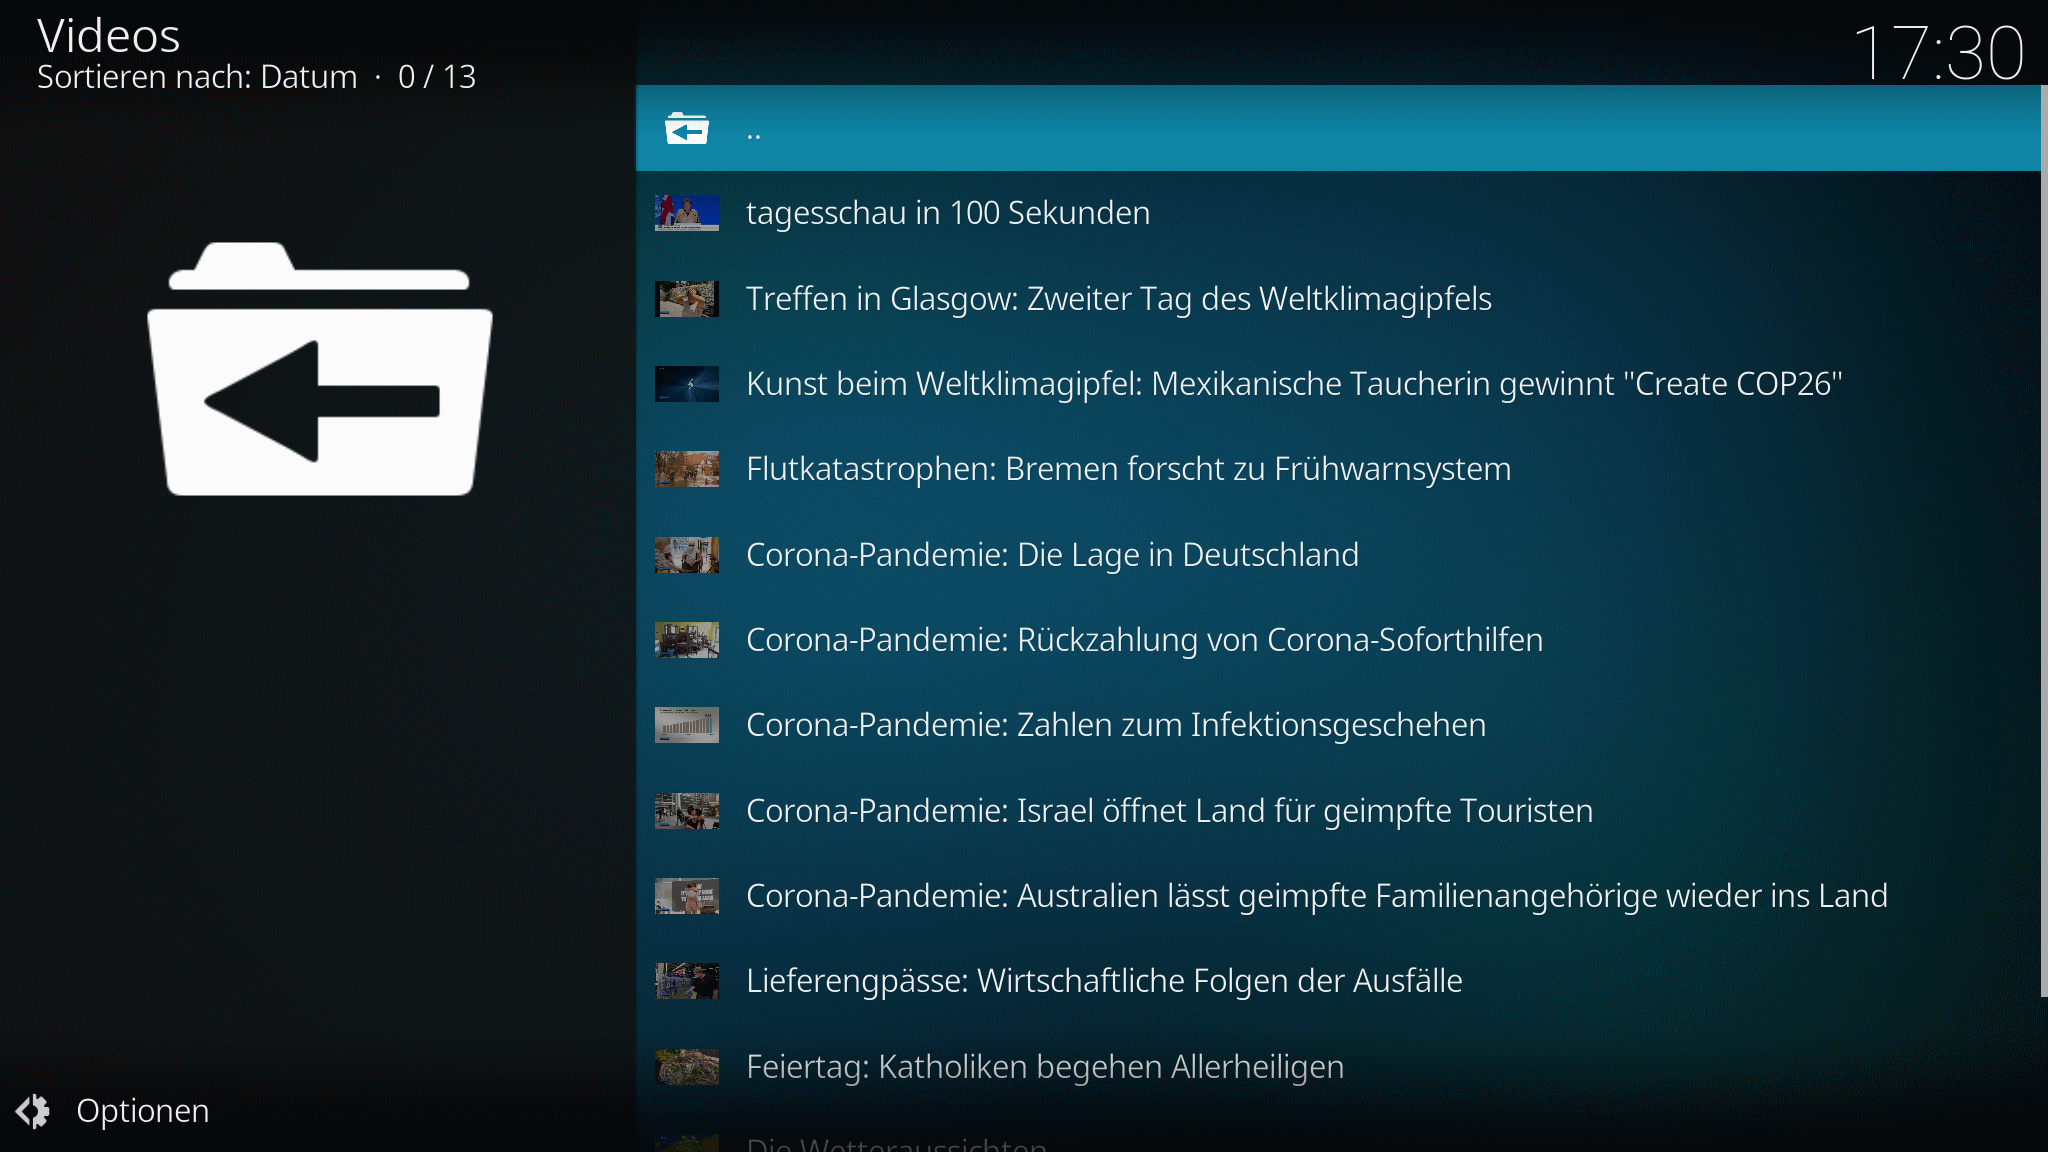
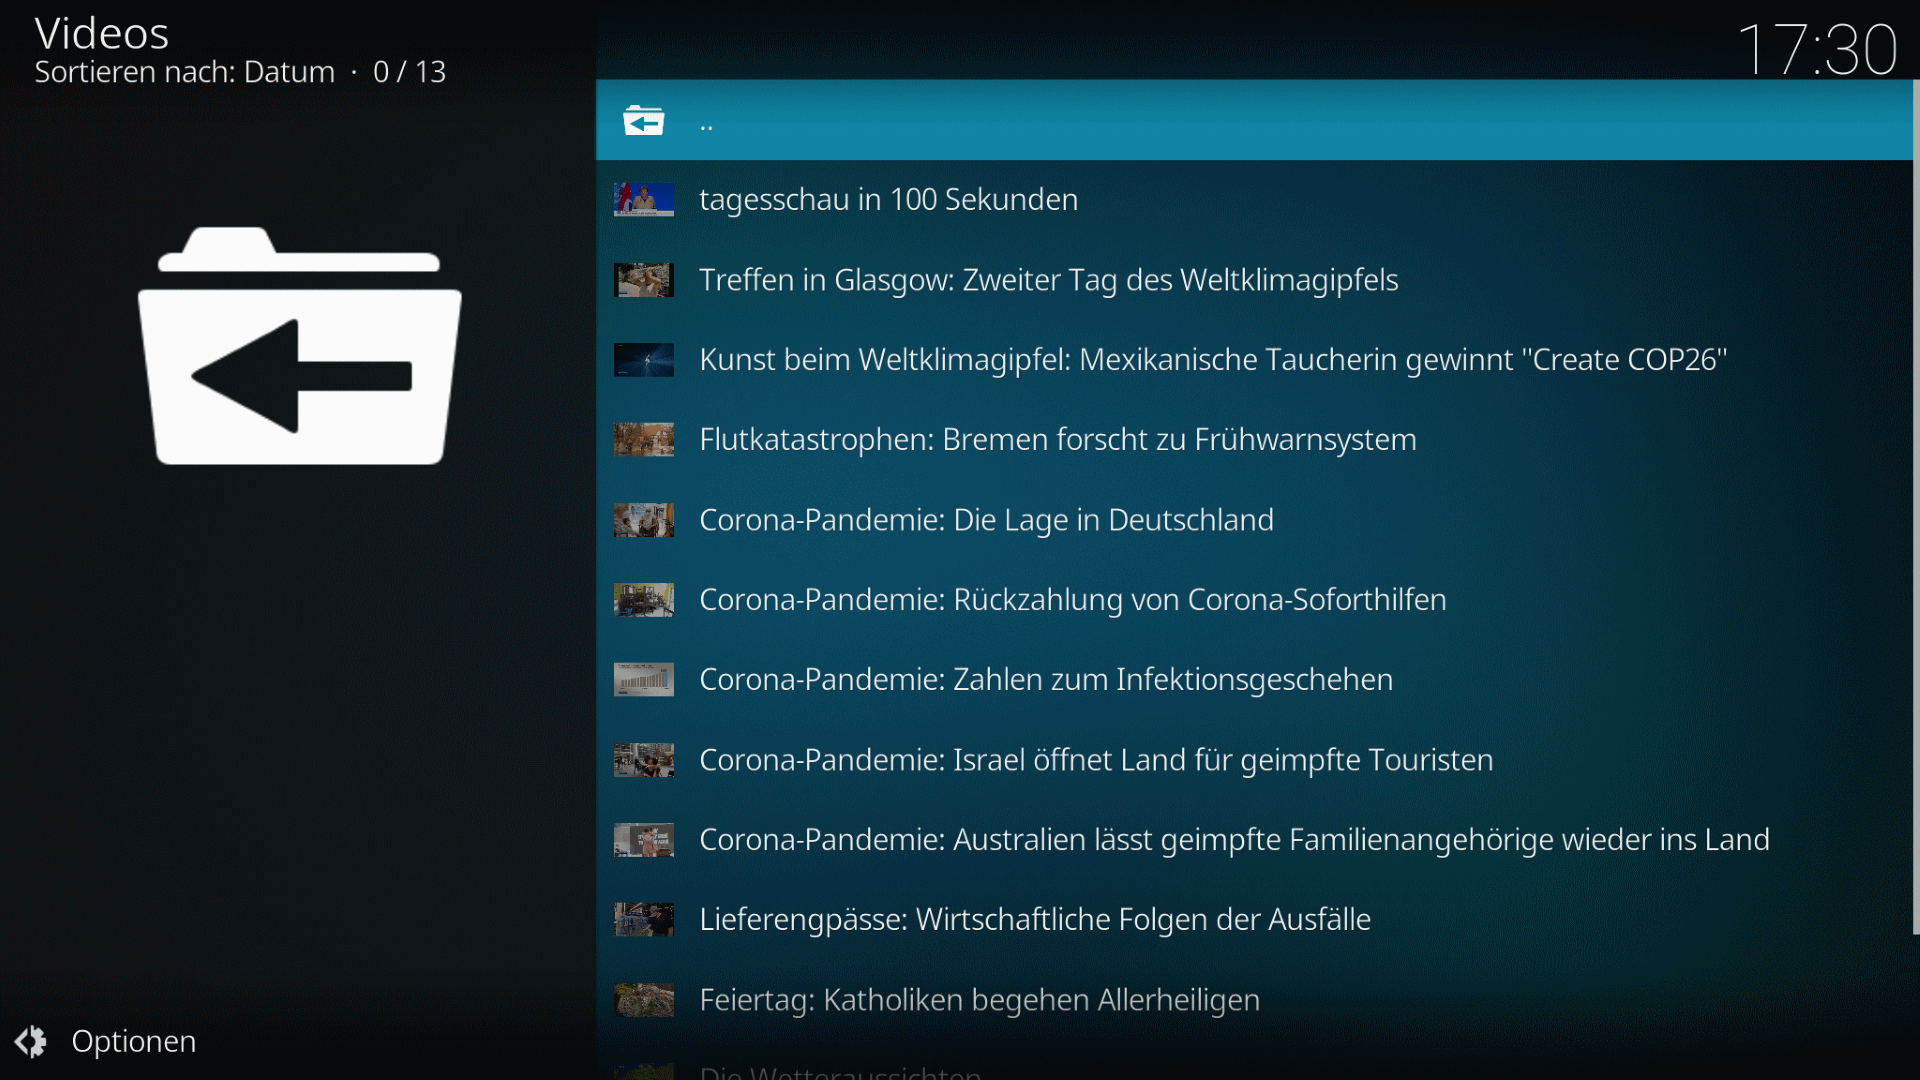
Change: Resolution of screenshots reduced to 1920x1080. Change: Moved sources to libs folder, starting point is main.py.

diff --git a/libs/tagesschau.py b/libs/tagesschau.py
@@ -18,8 +18,8 @@
 import sys, os, urllib, urllib.parse, logging
 import xbmc, xbmcplugin, xbmcgui, xbmcaddon, xbmcvfs
 
-from tagesschau_json_api import VideoContentProvider, JsonSource, LazyVideoContent
-from subtitles import download_subtitles
+from libs.tagesschau_json_api import VideoContentProvider, JsonSource, LazyVideoContent
+from libs.subtitles import download_subtitles
 
 # -- Constants ----------------------------------------------
 ADDON_ID = 'plugin.video.tagesschau'
@@ -109,61 +109,62 @@ def get_params():
         params[key] = params[key][0]
     return params
     
-# TODO: can't figure out how to set fanart for root/back folder of plugin
-# http://trac.xbmc.org/ticket/8228? 
-xbmcplugin.setPluginFanart(int(sys.argv[1]), 'special://home/addons/' + ADDON_ID + '/resources/assets/fanart.jpg')
 
-params = get_params()
-provider = VideoContentProvider(JsonSource())
+def tagesschau():
+   # TODO: can't figure out how to set fanart for root/back folder of plugin
+   # http://trac.xbmc.org/ticket/8228? 
+   xbmcplugin.setPluginFanart(int(sys.argv[1]), 'special://home/addons/' + ADDON_ID + '/resources/assets/fanart.jpg')
 
-if params.get(ACTION_PARAM) == 'play_video':
-    subtitles_file = None
-    # expecting either url or feed and id param
-    url = params.get(URL_PARAM)
-    if url:
-        url = urllib.parse.unquote(url) 
-    else: 
-        videos_method = getattr(provider, params[FEED_PARAM])
-        videos = videos_method()    
-        tsid = urllib.parse.unquote(params[ID_PARAM])
-        # find video with matching tsid
-        for video in videos:
-            if video.tsid == tsid:
-                url = video.video_url(quality)
-                # try to download and and convert subtitles to local SRT file
-                # as of October 2014, only subtiles for complete "tagesschau" broadcasts are available
-                # subtitles_url = 'http://www.tagesschau.de/multimedia/video/video-29351~subtitle.html'
-                subtitles_url = 'http://www.tagesschau.de/multimedia/video/' + str(video.video_id()) + '~subtitle.html'        
-                subtitles_file = download_subtitles(subtitles_url, subtitles_dir)
-                
-    listitem = xbmcgui.ListItem(path=url)
-    if(subtitles_file != None):
-        # the following only works in Gotham, see
-        # http://forum.xbmc.org/showthread.php?tid=154805&page=7&highlight=subtitle
-        listitem.setProperty('upnp:subtitle:1', subtitles_file)
-        listitem.setSubtitles((subtitles_file,))
+   params = get_params()
+   provider = VideoContentProvider(JsonSource())
 
-    xbmcplugin.setResolvedUrl(handle=int(sys.argv[1]), succeeded=(url != None), listitem=listitem)
+   if params.get(ACTION_PARAM) == 'play_video':
+       subtitles_file = None
+       # expecting either url or feed and id param
+       url = params.get(URL_PARAM)
+       if url:
+           url = urllib.parse.unquote(url) 
+       else: 
+           videos_method = getattr(provider, params[FEED_PARAM])
+           videos = videos_method()    
+           tsid = urllib.parse.unquote(params[ID_PARAM])
+           # find video with matching tsid
+           for video in videos:
+               if video.tsid == tsid:
+                   url = video.video_url(quality)
+                   # try to download and and convert subtitles to local SRT file
+                   # as of October 2014, only subtiles for complete "tagesschau" broadcasts are available
+                   # subtitles_url = 'http://www.tagesschau.de/multimedia/video/video-29351~subtitle.html'
+                   subtitles_url = 'http://www.tagesschau.de/multimedia/video/' + str(video.video_id()) + '~subtitle.html'        
+                   subtitles_file = download_subtitles(subtitles_url, subtitles_dir)
+                   
+       listitem = xbmcgui.ListItem(path=url)
+       if(subtitles_file != None):
+           # the following only works in Gotham, see
+           # http://forum.xbmc.org/showthread.php?tid=154805&page=7&highlight=subtitle
+           listitem.setProperty('upnp:subtitle:1', subtitles_file)
+           listitem.setSubtitles((subtitles_file,))
 
-elif params.get(ACTION_PARAM) == 'list_feed':
-    # list video for a directory
-    videos_method = getattr(provider, params[FEED_PARAM])
-    videos = videos_method()
-    addVideoContentItems(videos, params[FEED_PARAM])
+       xbmcplugin.setResolvedUrl(handle=int(sys.argv[1]), succeeded=(url != None), listitem=listitem)
 
-else:
-    # populate root directory
-    # check whether there is a livestream
-    videos = provider.livestreams()
-    if(len(videos) == 1):
-        addVideoContentItem(videos[0], "livestreams")
+   elif params.get(ACTION_PARAM) == 'list_feed':
+       # list video for a directory
+       videos_method = getattr(provider, params[FEED_PARAM])
+       videos = videos_method()
+       addVideoContentItems(videos, params[FEED_PARAM])
 
-    # add directories for other feeds        
-    add_named_directory = lambda x: addVideoContentDirectory(strings[x], x)
-    add_named_directory('latest_videos')
-    add_named_directory('latest_broadcasts')
-    add_named_directory('dossiers')
-    add_named_directory('archived_broadcasts')
-        
-xbmcplugin.endOfDirectory(int(sys.argv[1]))
+   else:
+       # populate root directory
+       # check whether there is a livestream
+       videos = provider.livestreams()
+       if(len(videos) == 1):
+           addVideoContentItem(videos[0], "livestreams")
 
+       # add directories for other feeds        
+       add_named_directory = lambda x: addVideoContentDirectory(strings[x], x)
+       add_named_directory('latest_videos')
+       add_named_directory('latest_broadcasts')
+       add_named_directory('dossiers')
+       add_named_directory('archived_broadcasts')
+           
+   xbmcplugin.endOfDirectory(int(sys.argv[1]))

diff --git a/libs/tagesschau_json_api.py b/libs/tagesschau_json_api.py
@@ -229,7 +229,7 @@ class VideoContentParser(object):
         """Parses the video mediadata JSON into a dict mapping variant name to URL."""
         variants = {}
         for jsonvariant in jsonvariants:
-            for name, url in jsonvariant.items():
+            for name, url in list(jsonvariant.items()):
                 variants[name] = url
         return variants
 
@@ -239,13 +239,13 @@ class VideoContentParser(object):
             return None
         # ignore time zone part
         isodate = isodate[:-6]
-        return datetime.datetime(*map(int, re.split('[^\d]', isodate)))
+        return datetime.datetime(*list(map(int, re.split('[^\d]', isodate))))
 
     def _parse_image_urls(self, jsonvariants):
         """Parses the image variants JSON into a dict mapping variant name to URL.""" 
         variants = {}
         for jsonvariant in jsonvariants:
-            for name, url in jsonvariant.items():
+            for name, url in list(jsonvariant.items()):
                 variants[name] = url
         return variants
 

diff --git a/main.py b/main.py
@@ -1,0 +1,4 @@
+from libs.tagesschau import tagesschau
+
+if __name__ == '__main__':
+  tagesschau()
